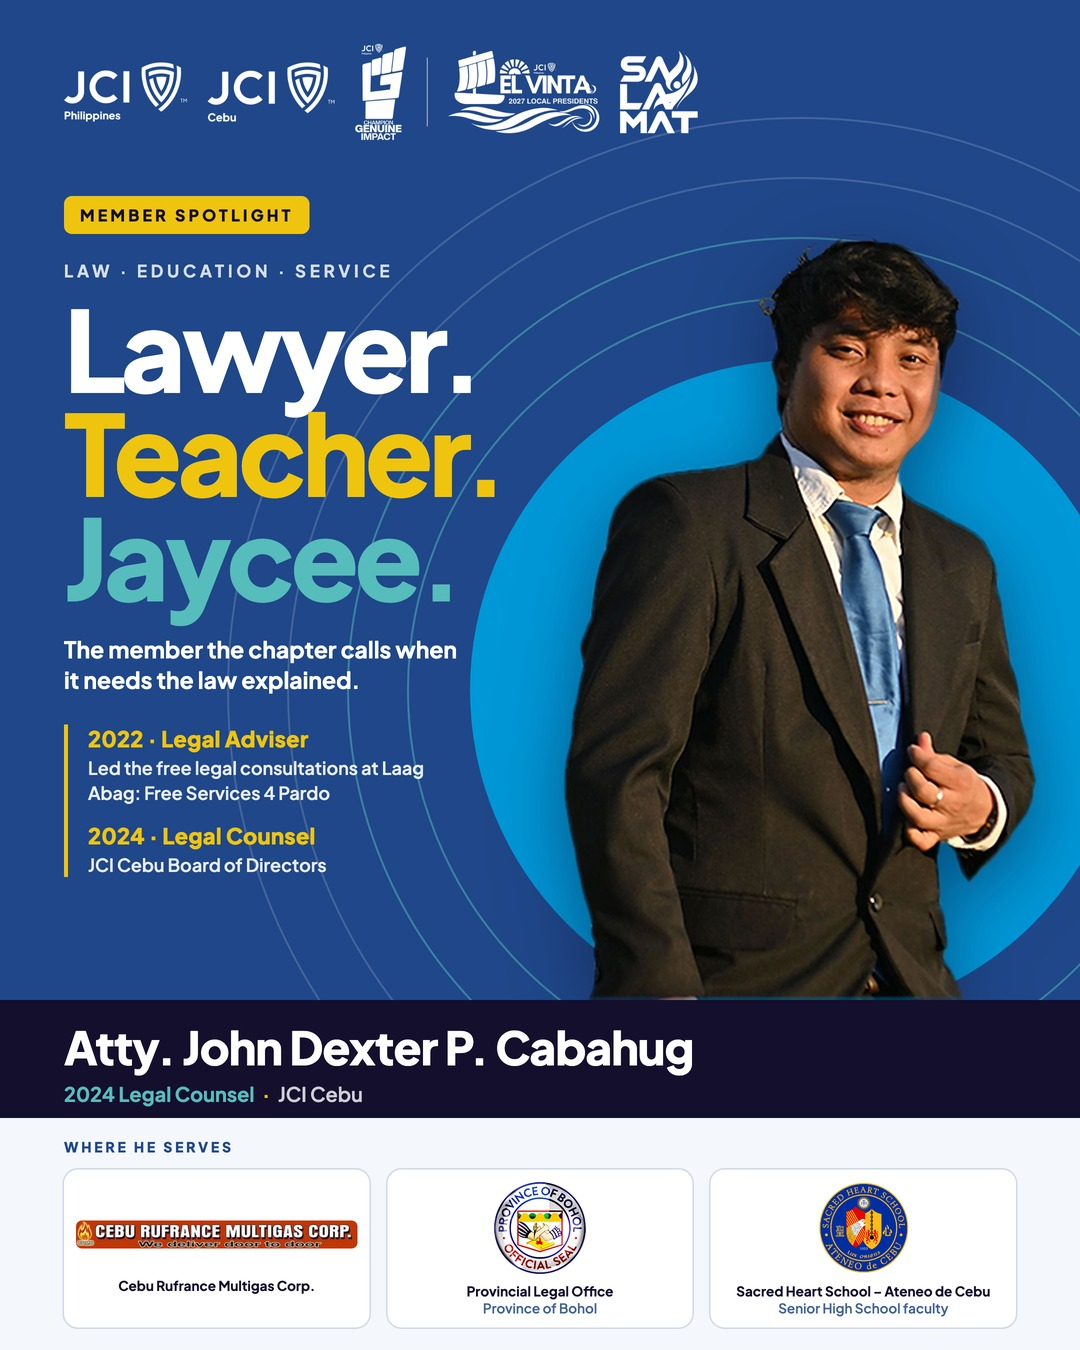
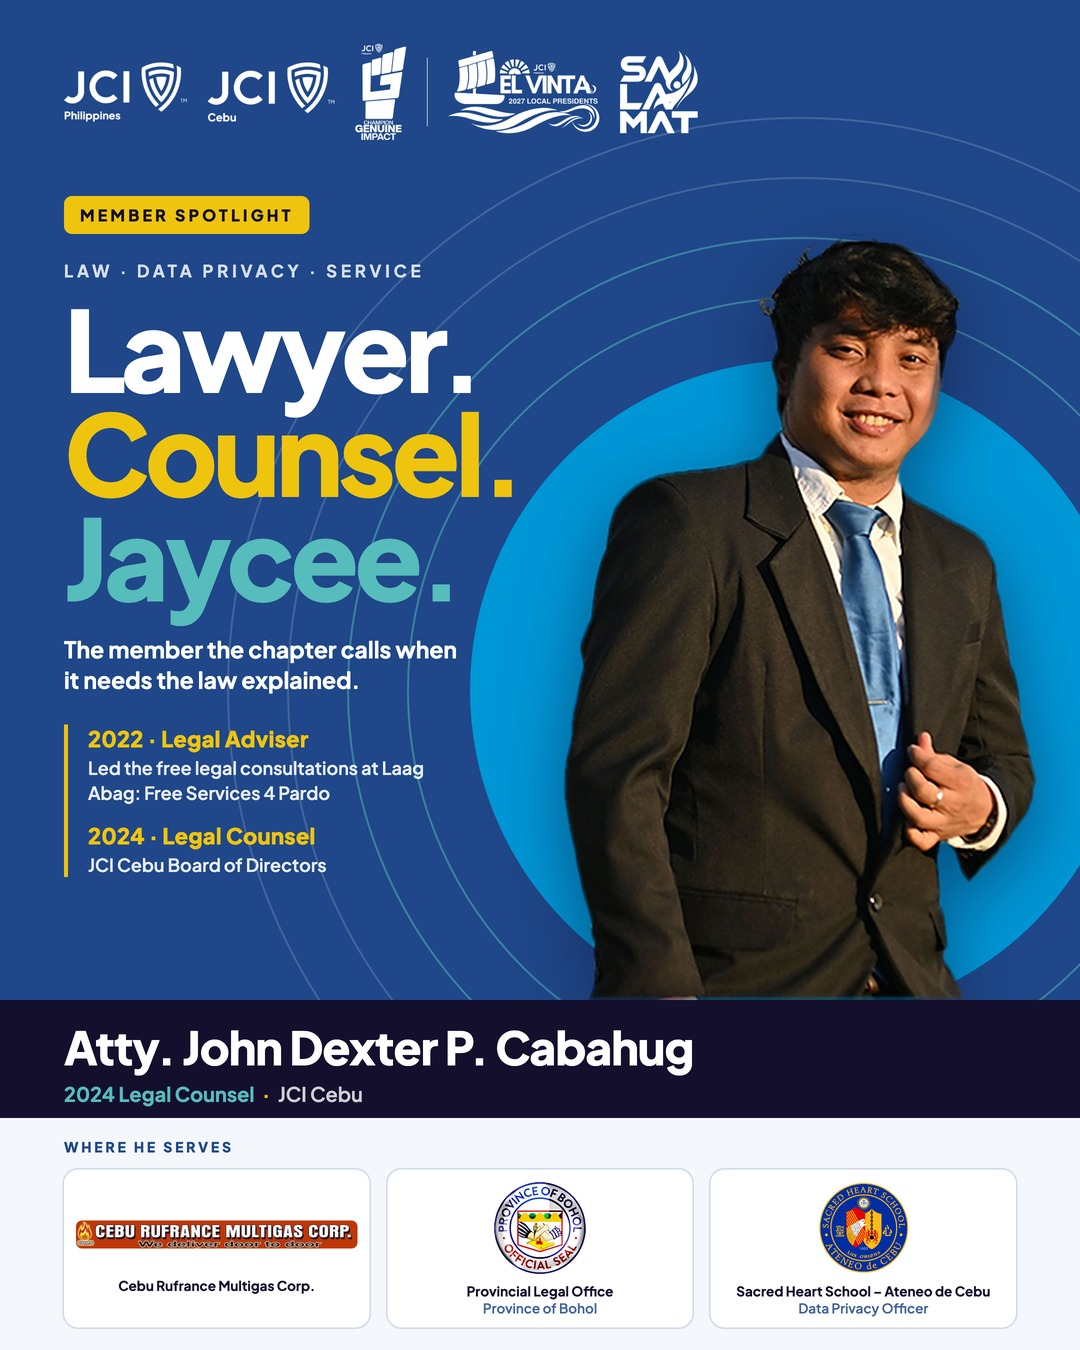
Atty. Dex spotlight: Data Privacy Officer, not teacher

Changed region(s): [[0.0611, 0.28, 0.4889, 0.3733], [0.1222, 0.1867, 0.3972, 0.2178], [0.7333, 0.9644, 0.8861, 0.9956]]

diff --git a/index.html b/index.html
@@ -447,16 +447,16 @@ Go, Mark! 💙
   </div>
 </article>
 <article class="card" id="dexter-cabahug">
-  <a class="shot" href="img/jci-cebu-dexter-cabahug.jpg?v=1794848051" target="_blank" rel="noopener">
-    <img src="img/jci-cebu-dexter-cabahug.jpg?v=1794848051" alt="Spotlight pubmat for Atty. John Dexter P. Cabahug" width="1080" height="1350" loading="lazy">
+  <a class="shot" href="img/jci-cebu-dexter-cabahug.jpg?v=1794849995" target="_blank" rel="noopener">
+    <img src="img/jci-cebu-dexter-cabahug.jpg?v=1794849995" alt="Spotlight pubmat for Atty. John Dexter P. Cabahug" width="1080" height="1350" loading="lazy">
   </a>
   <div class="body">
     <div class="meta"><span class="st st-draft">draft</span></div>
     <h2>Atty. John Dexter P. Cabahug</h2>
-    <p class="role">2024 Legal Counsel · Lawyer and teacher</p>
+    <p class="role">2024 Legal Counsel · Lawyer and data privacy officer</p>
     
     <div class="actions">
-      <a class="btn primary" href="img/jci-cebu-dexter-cabahug.jpg?v=1794848051" download="jci-cebu-dexter-cabahug.jpg">Download image</a>
+      <a class="btn primary" href="img/jci-cebu-dexter-cabahug.jpg?v=1794849995" download="jci-cebu-dexter-cabahug.jpg">Download image</a>
       <button class="btn" data-copy="fb-9">Copy FB caption</button>
       <button class="btn" data-copy="ig-9">Copy IG caption</button>
     </div>
@@ -464,11 +464,11 @@ Go, Mark! 💙
       <summary>Read the Facebook caption</summary>
       <pre id="fb-9">Member Spotlight: Atty. John Dexter P. Cabahug ⚖
 
-Lawyer. Teacher. Jaycee.
+Lawyer. Counsel. Jaycee.
 
 When JCI Cebu brought free services to Sitio Tabucanal, Pardo in June 2022, the residents who needed legal advice sat down with Atty. Dex. As the chapter&#x27;s Legal Adviser, he led the free legal consultations at Laag Abag: Free Services 4 Pardo. In 2024, he served on the JCI Cebu Board of Directors as Legal Counsel.
 
-Outside the chapter, Atty. Dex serves at Cebu Rufrance Multigas Corp. and at the Provincial Legal Office of Bohol, and he teaches Senior High School at Sacred Heart School – Ateneo de Cebu.
+Outside the chapter, Atty. Dex serves at Cebu Rufrance Multigas Corp. and at the Provincial Legal Office of Bohol, and he is the Data Privacy Officer of Sacred Heart School – Ateneo de Cebu.
 
 Salamat, Atty. Dex, for sharing your profession with the chapter and with the communities we serve.
 
@@ -478,9 +478,9 @@ Salamat, Atty. Dex, for sharing your profession with the chapter and with the co
       <summary>Read the Instagram caption</summary>
       <pre id="ig-9">Member Spotlight: Atty. John Dexter P. Cabahug ⚖
 
-Lawyer. Teacher. Jaycee.
+Lawyer. Counsel. Jaycee.
 
-He led the free legal consultations at Laag Abag: Free Services 4 Pardo in 2022 as our Legal Adviser, and served as Legal Counsel on the 2024 Board of Directors. Outside the chapter, he serves at Cebu Rufrance Multigas Corp. and the Provincial Legal Office of Bohol, and teaches Senior High School at Sacred Heart School – Ateneo de Cebu.
+He led the free legal consultations at Laag Abag: Free Services 4 Pardo in 2022 as our Legal Adviser, and served as Legal Counsel on the 2024 Board of Directors. Outside the chapter, he serves at Cebu Rufrance Multigas Corp. and the Provincial Legal Office of Bohol, and is the Data Privacy Officer of Sacred Heart School – Ateneo de Cebu.
 
 Salamat, Atty. Dex.
 
